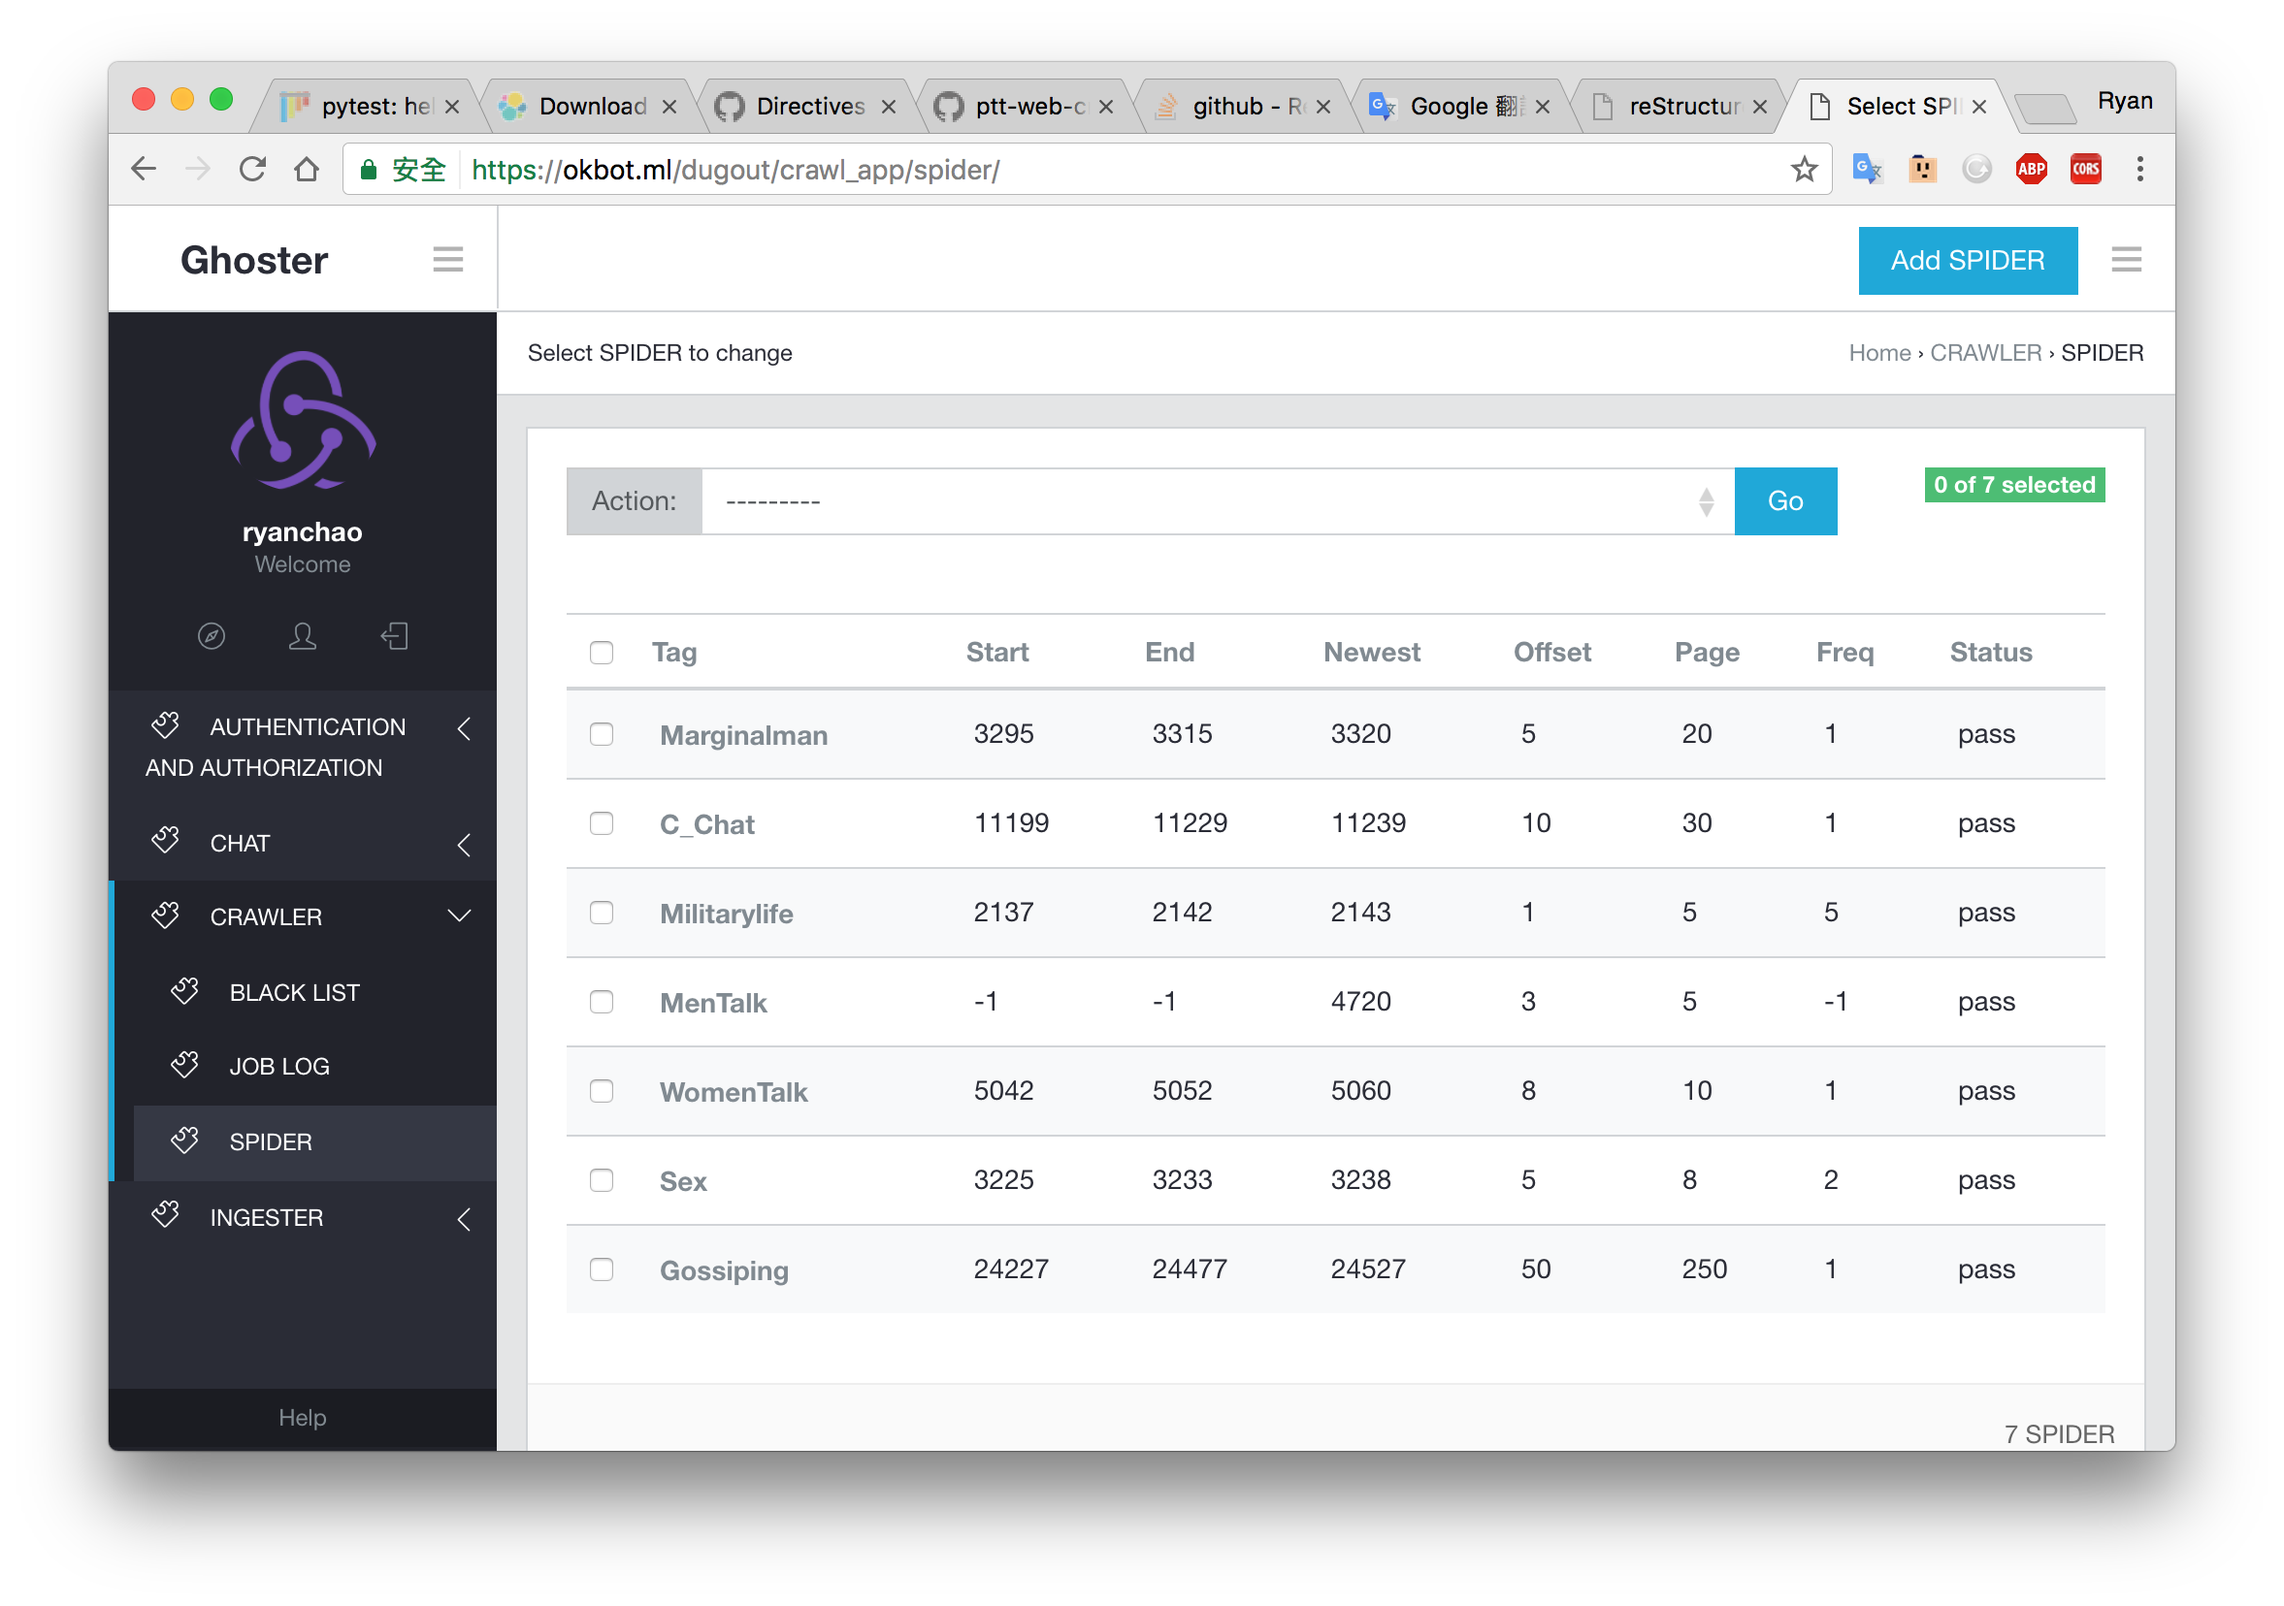
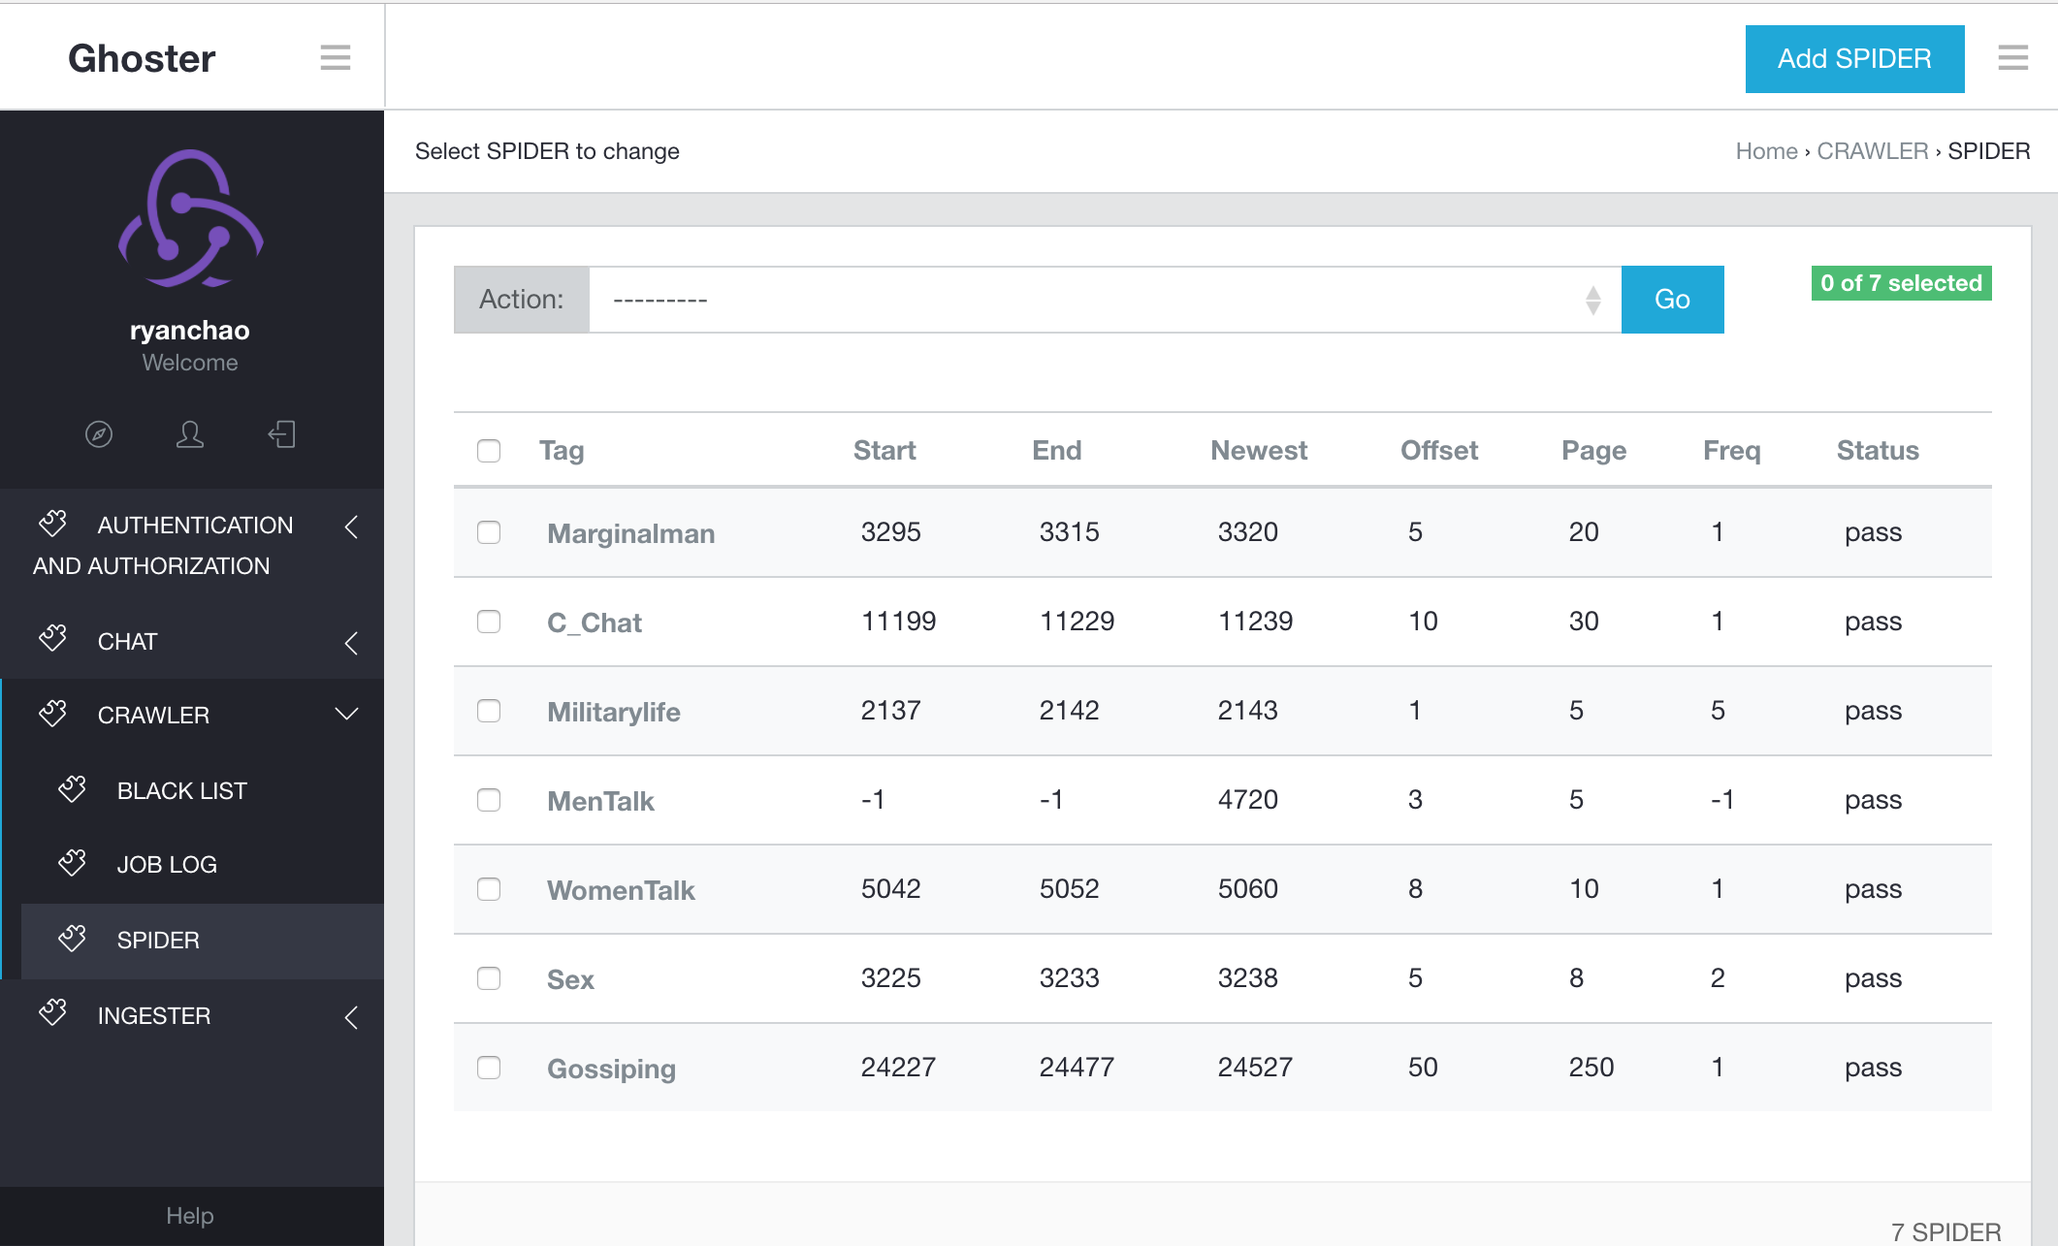
update README

diff --git a/README.md b/README.md
@@ -11,6 +11,7 @@ The core modules in this repo are: ``crawl_app``, ``ingest_app`` and ``chat_app`
 
 Chat Demos
 ----------
+
 <img src="res/demo7.png" width="300">
 <img src="res/demo6.png" width="300">
 <img src="res/demo1.png" width="300">
@@ -18,6 +19,21 @@ Chat Demos
 <img src="res/demo3.png" width="300">
 <img src="res/demo4.png" width="300">
 
+
+Setting Demos in Django Admin 
+-----------------------------
+
+#### Crawler setting:
+
+<img src="res/admin_spider_config.png" width="400">
+
+#### Blacklist setting:
+
+<img src="res/admin_spider_blacklist.png" width="400">
+
+#### Vocabulary:
+
+<img src="res/admin_vocab.png" width="400">
 
 
 PTT-Crawler
